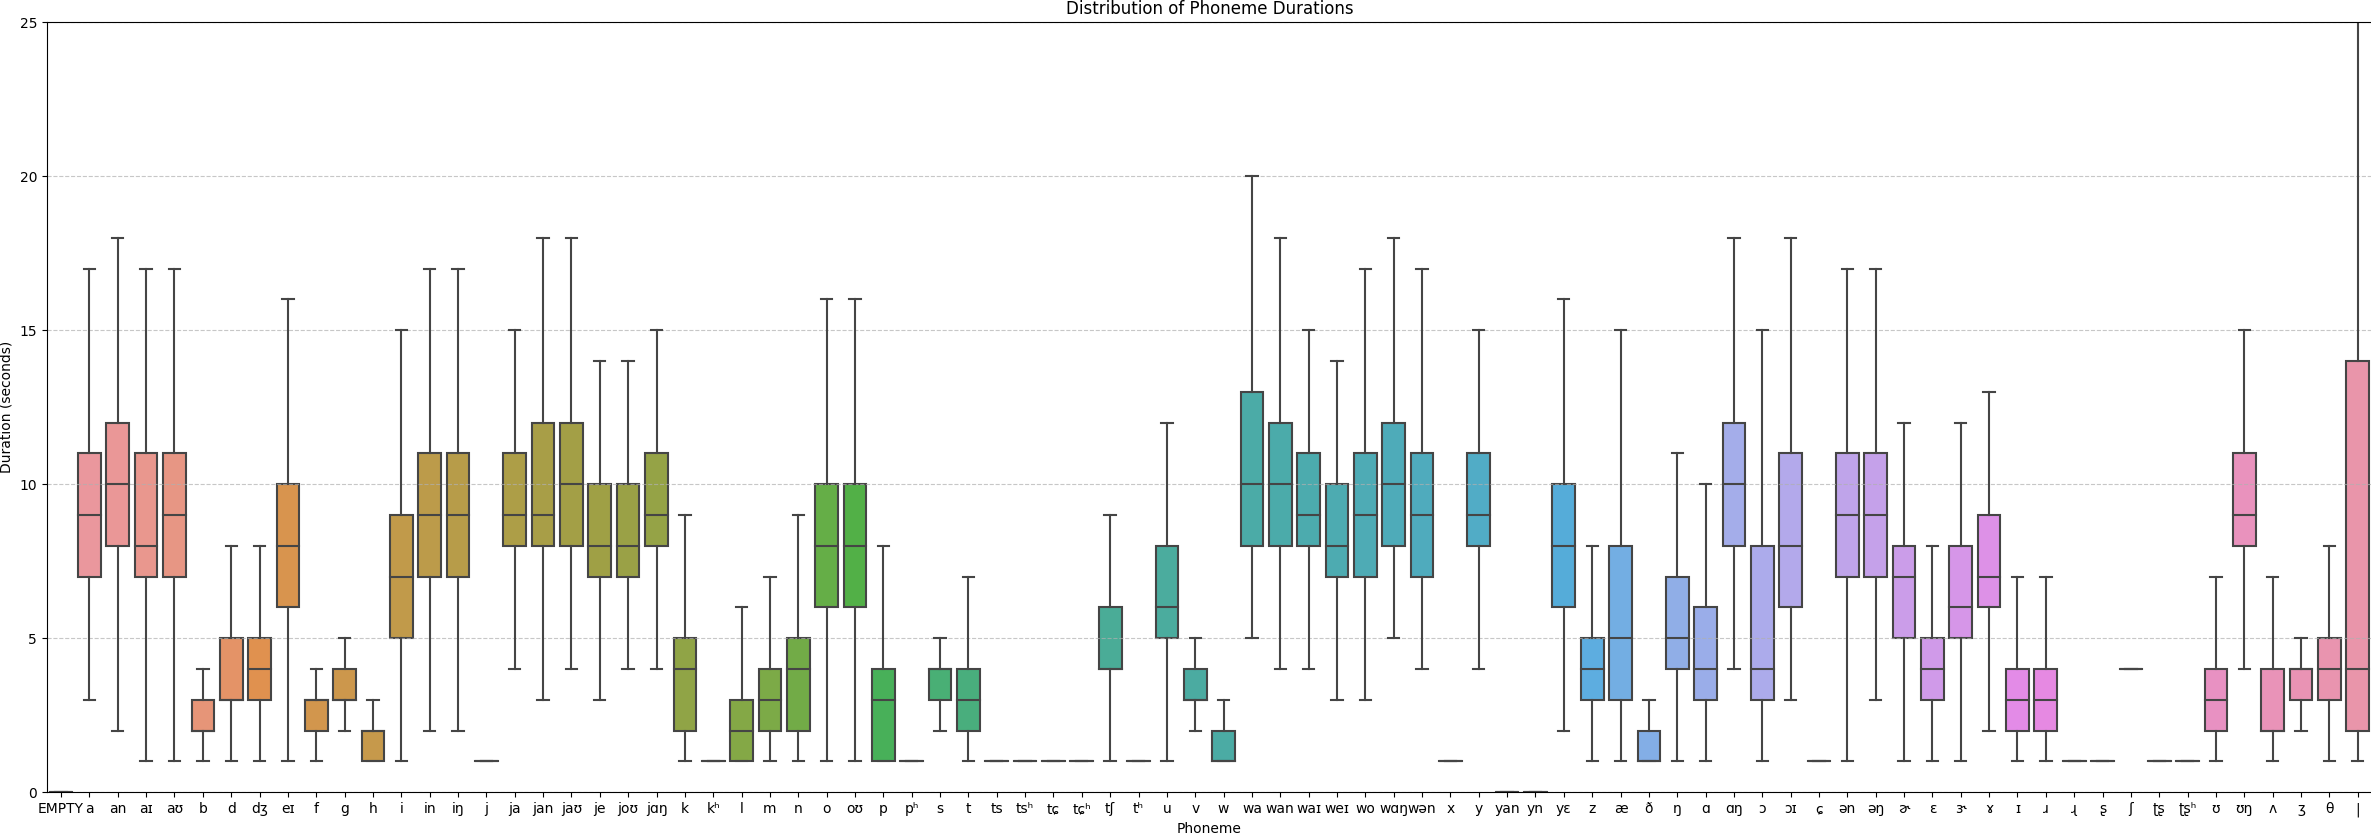
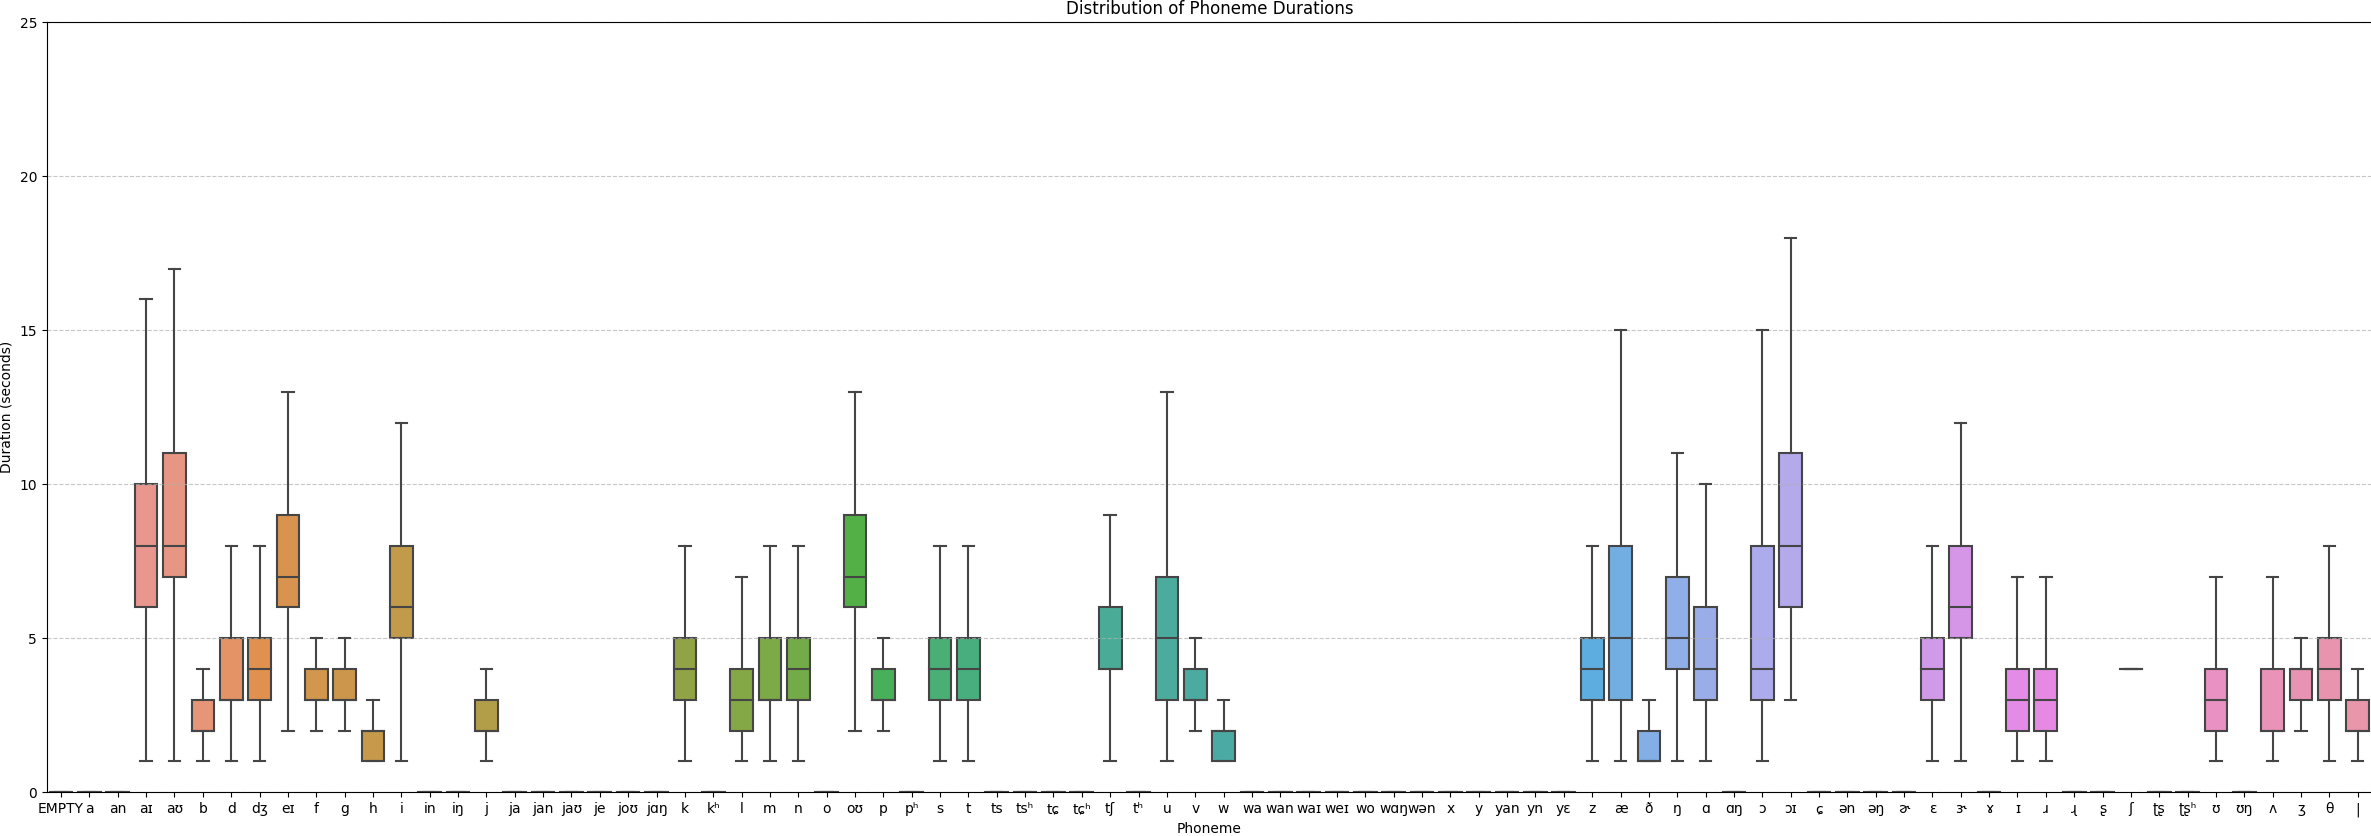
Save

diff --git a/drawdistribution.py b/drawdistribution.py
@@ -13,8 +13,8 @@ from dataset import BakerText,LJSpeechText
 import torch
 from function import draw_duration_distribution
 from ipa import idx_to_ipa,ipa_pho_dict
-dataset1 = BakerText(path="C:/baker/",start=0,end=10000,ipa=True,no_sil=False,sil_duration=2)
-dataset2 = LJSpeechText(path="C:/LJSpeech/",start=0,end=13100,no_sil=False,sil_duration=2)
+dataset1 = BakerText(path="C:/baker/",start=0,end=10000,ipa=True,no_sil=False)
+dataset2 = LJSpeechText(path="C:/LJSpeech/",start=0,end=13100,no_sil=False)
 xs = dataset2.x.tolist()
 ls = dataset2.l.tolist()
 
@@ -43,7 +43,7 @@ data = {
     "Duration": durations,
 }
 
-draw_duration_distribution(data,name="ljspeech_silduration")
+draw_duration_distribution(data,name="LJSpeech")
 # print(dataset.x,dataset.l)
 # from function import draw_phoneme_distribution
 # dataset1 = BakerText(path="C:/baker/",start=0,end=10000,ipa=True,no_sil=False)

diff --git a/dataset.py b/dataset.py
@@ -236,11 +236,13 @@ class BakerText(torch.utils.data.Dataset):
                     l.append(duration)
 
             if no_sil:
+                print("no sillllllllllllll")
                 tones = [
                     [tone for tone, phoneme in zip(s, p) if phoneme != 81] for s, p in zip(tones, ipd_idx)
                 ]
                 ipd_idx, l = zip(*[adjust_sil_durations(d, p) for d, p in zip(ipd_idx, l)])
             elif sil_duration is not None:
+                print("ssssssssssssssssss")
                 ipd_idx, l = zip(*[change_sil_durations(d, p,sil_duration) for d, p in zip(ipd_idx, l)])
 
 
